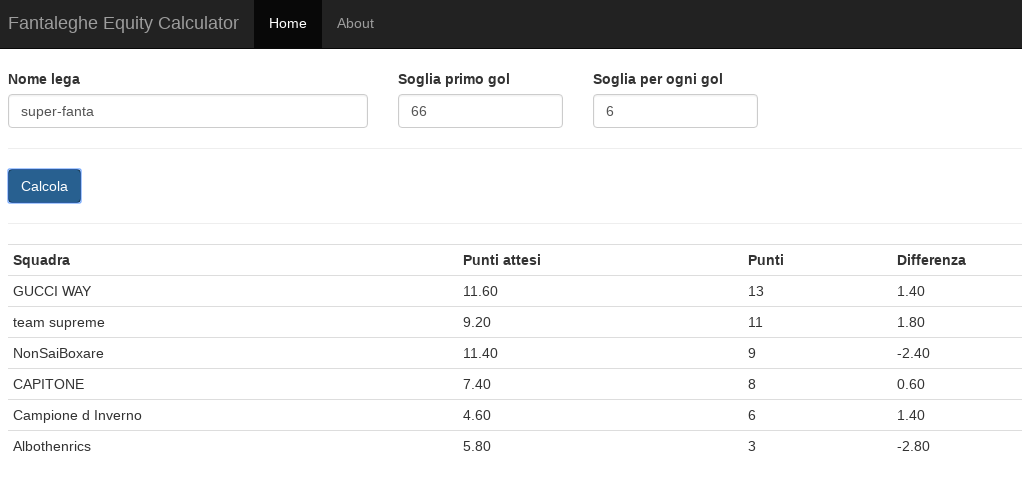
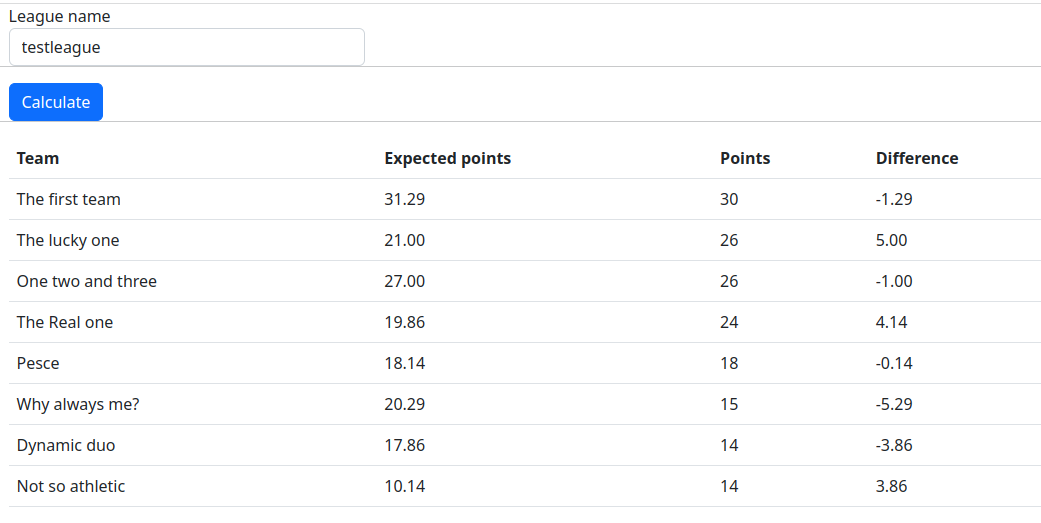
translating UI, updating it and updating README
updating backend deps and deleting duplicated ones

diff --git a/ui/src/html/index.html b/ui/src/html/index.html
@@ -20,47 +20,37 @@
 <body>
 <div th:replace="fragments/head"></div>
 
-<div class="container" ng-app="fantalegheEV" ng-controller="HomeController">
-    <div>
-        <div class="row">
-            <div class="col-md-4">
-                <label>Nome lega</label>
-                <input class="form-control" id="league_name" ng-model="league_name" ng-keyup="show_error = false" type="text"/>
+    <div class="container" ng-app="fantalegheEV" ng-controller="HomeController">
+        <div>
+            <div class="row">
+                <div class="col-md-4">
+                    <label>League name</label>
+                    <input class="form-control" id="league_name" ng-model="league_name" ng-keyup="show_error = false" type="text"/>
+                </div>
+            <div class="row">
+                <div id="error-msg" class="col-md-10 alert alert-danger" ng-show="show_error">
+                    {{error_message}}
+                </div>
             </div>
-<!--            <div class="col-md-2">
-                <label>Soglia primo gol</label>
-                <input class="form-control" id="first_goal_threshold" ng-model="first_goal_threshold" ng-keyup="show_error = false" type="text"/>
+            <hr/>
+            <div class="row">
+                <div class="col-md-2">
+                    <button id="calculate" class="btn btn-primary" ng-click="calculate()">Calculate</button>
+                </div>
             </div>
-            <div class="col-md-2">
-                <label>Soglia per ogni gol</label>
-                <input class="form-control" id="goal_threshold" ng-model="goal_threshold" ng-keyup="show_error = false" type="text"/>
-            </div>
-        </div>
-        -->
-        <div class="row">
-            <div id="error-msg" class="col-md-10 alert alert-danger" ng-show="show_error">
-                {{error_message}}
-            </div>
-        </div>
-        <hr/>
-        <div class="row">
-            <div class="col-md-2">
-                <button id="calculate" class="btn btn-primary" ng-click="calculate()">Calcola</button>
-            </div>
-        </div>
-        <hr/>
-        <div class="row">
-            <div class="col-md-12" ng-hide="table_content.length == 0">
-                <table class="table table-condensed">
-                    <th>Squadra</th><th>Punti attesi</th><th>Punti</th><th>Differenza</th>
-                    <tr ng-repeat="row in table_content">
-                        <td>{{row.team}}</td><td>{{row.evPoints | number:2}} </td><td>{{row.points}}</td><td>{{(row.points - row.evPoints) | number:2}}</td>
-                    </tr>
-                </table>
+            <hr/>
+            <div class="row">
+                <div class="col-md-12" ng-hide="table_content.length == 0">
+                    <table class="table table-condensed">
+                        <th>Team</th><th>Expected points</th><th>Points</th><th>Difference</th>
+                        <tr ng-repeat="row in table_content">
+                            <td>{{row.team}}</td><td>{{row.evPoints | number:2}} </td><td>{{row.points}}</td><td>{{(row.points - row.evPoints) | number:2}}</td>
+                        </tr>
+                    </table>
+                </div>
             </div>
         </div>
     </div>
 </div>
-
 </body>
 </html>

diff --git a/README.md b/README.md
@@ -6,7 +6,7 @@
 This project is a web application that permits to recalculate a fantasy league rank in a *fair* way.
 This application backend runs on <a href="spring.io">Spring Framework</a> and uses Java library <a href="https://jsoup.org">jsoup</a> to perform HTML parsing, while frontend is realized using <a href="https://angularjs.org/">AngularJs</a>.
 
-This application analyzes football fantasy league hosted on <a href="http://leghe.fantagazzetta.it">leghe.fantagazzetta.it</a>. I have no relationship with them.  
+This application analyzes football fantasy league hosted on <a href="http://leghe.fantacalcio.it">leghe.fantacalcio.it</a>. I have no relationship with them.  
 
 ### Fantasy football rules
 This game is based on Italian Serie A football championship.
@@ -14,16 +14,14 @@ This game is based on Italian Serie A football championship.
 A league is formed by teams which roaster is composed by Serie A clubs' players.
 A league day is associated to a Serie A championship day. For each league day a team picks up eleven player for the starter team and a variable number of players to compose the bench.
 After the game championship is ended is possible to calculate league results.
-Teams results are based on grades (1 to 10) given to players by different Italian sports newspapers (source is configurable). Also malus/bonus are applied to a player's grade if a certain event happens (a red card is usually a -1, a goal scored is usually a +3. This values are configurable by a league admin and can change).
-If the sum of grades of the eleven starters (replaced by substitutes if they didn't played/get a grade) reaches a *first goal threshold* then a goal is scored by the team, two goals are scored if the sum exceeds *first goal threshold + goal threshold* and so on.
-Usually first goal threshold is set to *66* (we have an average of 6 among players, 6 is a sufficient grade in a 1-10 scale)
+A team scores N goals based on grades (1 to 10) given to players by different Italian sports newspapers (source is configurable). Also malus/bonus are applied to a player's grade if a certain event happens (a red card is usually a -1, a goal scored is usually a +3. This values are configurable by a league admin and can change).
 
 In a *Championship* type league a team plays with all others team in the league: since team goals scored are independent from adversary team goals scored in a head to head match, luck in the drawing phase may have have a great impact on the league ranking.
 
 This is way I come up with an algorithm which can give an estimate on how lucky, or unlucky, teams in the league are.
 ### Algorithm
 
-Algorithms calculate all possible outcomes for each league day and then it returns an average values.
+Algorithm calculate all possible outcomes for each league day then it returns an average value
 
 An example would be:
    
@@ -46,17 +44,14 @@ Using the algorithm, we will have a new ranking:
 ### Sites screenshots
 
 ![Homepage](docs/images/fantaleghe_empty.png)
-The site just requires three parameters:
-* league name 
-* first goal threshold
-* goal threshold
+UI is quite basic and just requires the league name
 
 Then click on the calculate button
 
 ![After calculation](docs/images/fantaleghe_filled.png)
 
 After calculation is made, rank will appear on bottom. It contains:
-* points calculated by the algoritm 
+* points calculated by the algorithm 
 * actual point earned by the team
 * difference between them
 
